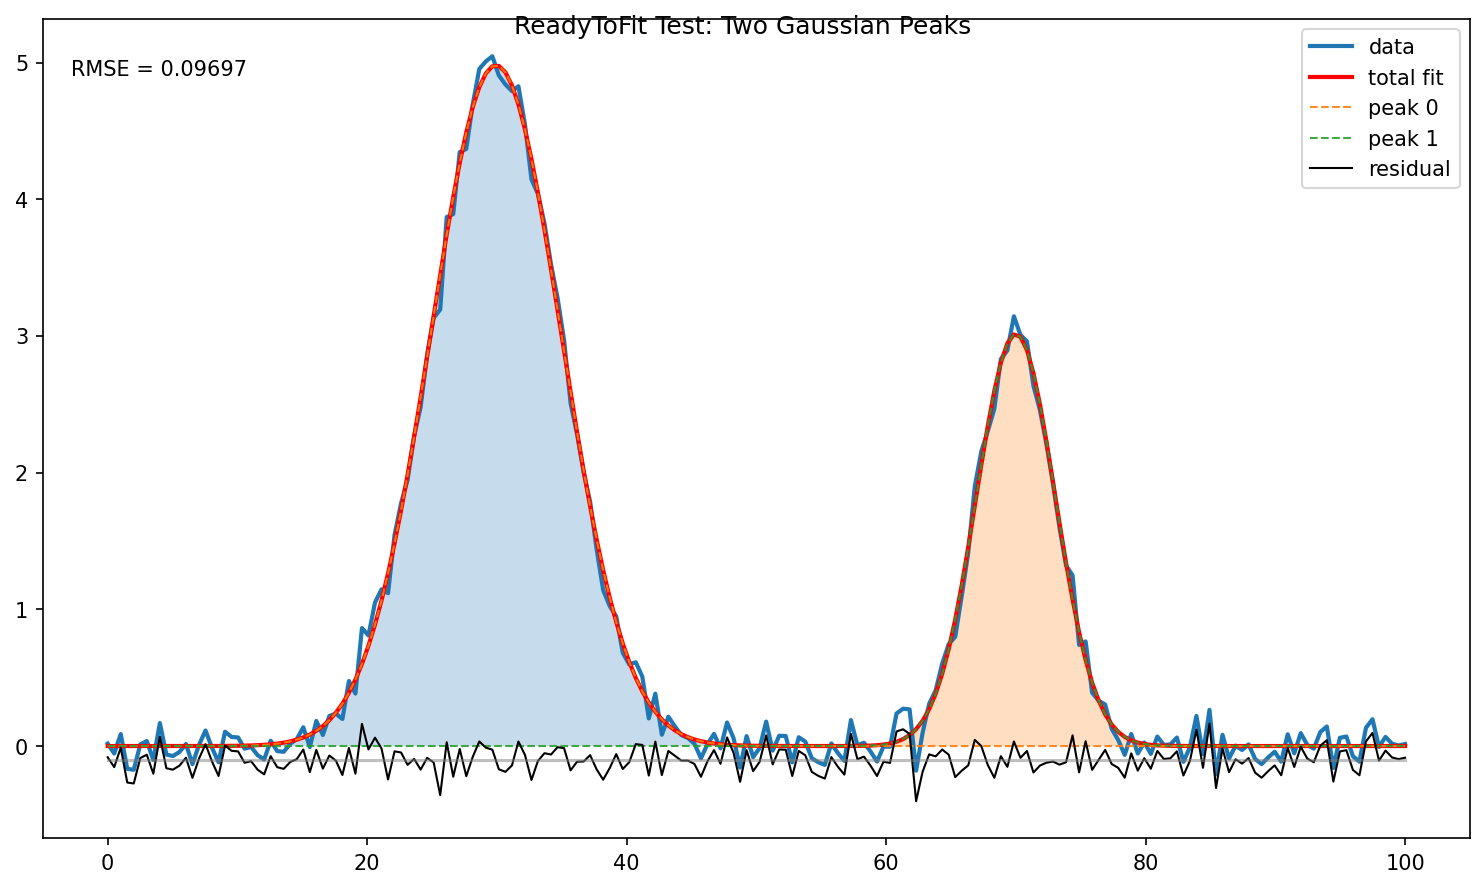
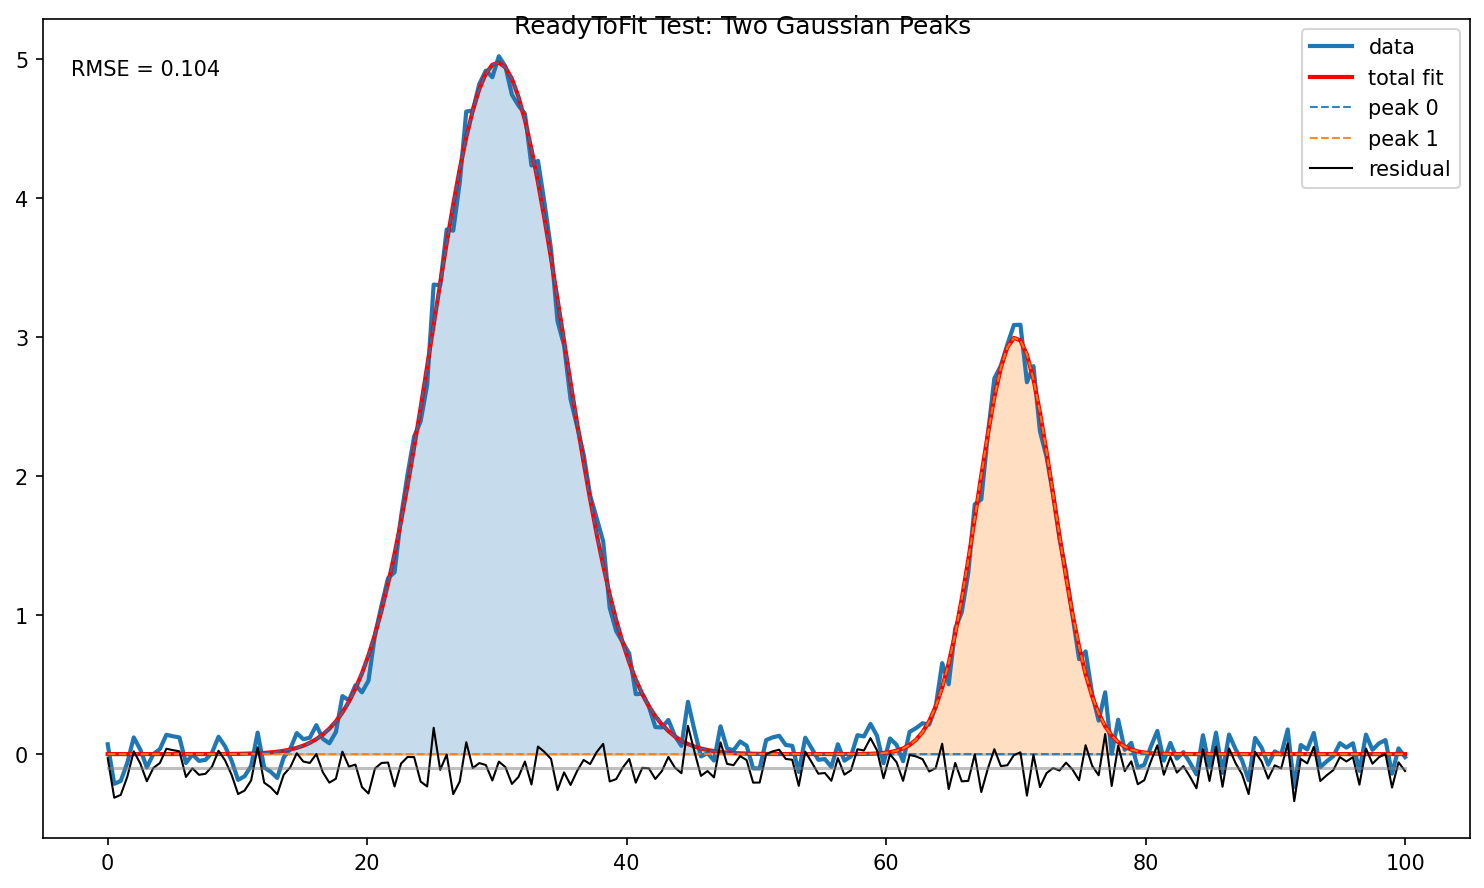
Fixed color assignment for individual peaks in plot_fit.py to ensure consistent coloring between lines and filled areas.

diff --git a/readytofit/plot_fit.py b/readytofit/plot_fit.py
@@ -13,7 +13,7 @@ Designed for easy comparison of data vs. fitted model.
 from typing import Optional, Dict
 import numpy as np
 import matplotlib.pyplot as plt
-
+import matplotlib.colors as mcolors
 
 def plot_fit_result( x: np.ndarray, y: np.ndarray, result: Dict, show_residual: bool = True,
                      residual_offset: float = -0.1, show_rmse: bool = True, fig: Optional[plt.Figure] = None, ax: Optional[plt.Axes] = None) -> (plt.Figure, plt.Axes):
@@ -68,15 +68,17 @@ def plot_fit_result( x: np.ndarray, y: np.ndarray, result: Dict, show_residual: 
     total_fit = result["total_fit"]
     ax.plot(x, total_fit, color="red", linewidth=2, label="total fit")
 
+    color_list = list(mcolors.TABLEAU_COLORS.values())
+
     # =========================================================
     # INDIVIDUAL PEAKS
     # =========================================================
     for i, peak in enumerate(result.get("peak_fits", [])):
         # dashed peak contribution
-        ax.plot( x, peak, linestyle="--", linewidth=1, alpha=0.9, label=f"peak {i}")
+        ax.plot( x, peak, linestyle="--", linewidth=1, alpha=0.9, label=f"peak {i}", color = color_list[i % len(color_list)] )
 
         # filled area under peak
-        ax.fill_between(x, peak, alpha=0.25)
+        ax.fill_between(x, peak, alpha=0.25, color = color_list[i % len(color_list)] )
 
     # =========================================================
     # RESIDUAL
